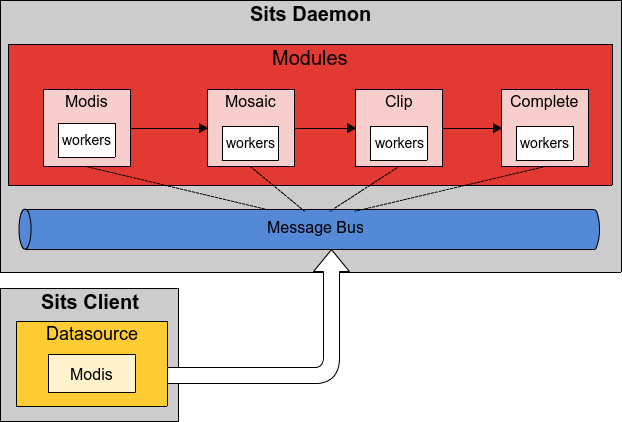
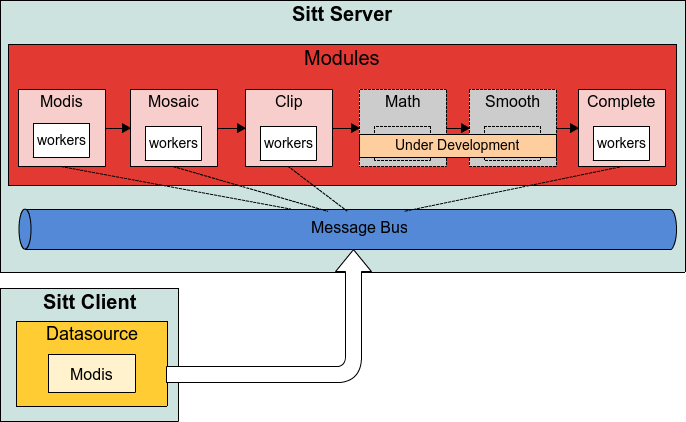
New architecture image

diff --git a/src/modules/math.py b/src/modules/math.py
@@ -1,0 +1,43 @@
+import os
+import utils
+from _module import Module
+from tools import gdal_utils
+
+class Math(Module):
+
+	def __init__(self, config):
+		Module.__init__(self, config)
+
+	def process(self, message):
+		
+		end = message.get('end')
+		start = message.get('start')
+		layer = message.get('layer')
+		startDoy = message.get('startDoy')
+		startYear = message.get('startYear')
+		region = message.get('region')
+		pathShp = message.get('path_shp')
+		productName = message.get('productName').replace('.','_')
+
+		inputFilepath = layer['file'];
+		inputFilename = os.path.basename(inputFilepath)
+
+		outputFilename = "_".join([productName, layer['name'], startYear + startDoy, region]) + '.tif'
+		outputFilepath = os.path.join(self.module_path, outputFilename)
+
+		utils.removeFileIfExist(outputFilepath)
+
+		shapeFilepath = os.path.join(pathShp, region.lower() + '.shp')
+		
+		utils.log(self.name, 'Generating', outputFilename, ' by region ', region)
+		gdal_utils.clip(inputFilepath, outputFilepath, shapeFilepath, layer['nodata'])
+
+		tmpFiles = message.get('tmpFiles')
+		tmpFiles.append(layer['file'])
+		message.set('tmpFiles', tmpFiles)
+
+		layer['file'] = outputFilepath
+		message.set('layer', layer)
+
+		utils.log(self.name, 'Forward message (', outputFilename, ')')
+		self.publish(message)

diff --git a/src/modules/__init__.py b/src/modules/__init__.py
@@ -1,7 +1,7 @@
 from clip import Clip
 from complete import Complete
-from index import Index
+from math import Math
 from modis import Modis
 from mosaic import Mosaic
 
-__all__ = ['Clip','Complete','Index','Modis','Mosaic']
+__all__ = ['Clip','Complete','Math','Modis','Mosaic']

diff --git a/README.md b/README.md
@@ -1,4 +1,4 @@
-# Satellite Image Time Series
+# Satellite Image Time-Series Tool
 
 ## Architecture
 ![alt tag](https://raw.githubusercontent.com/lapig-ufg/satellite-image-time-series/master/proj/img/architecture.png)
